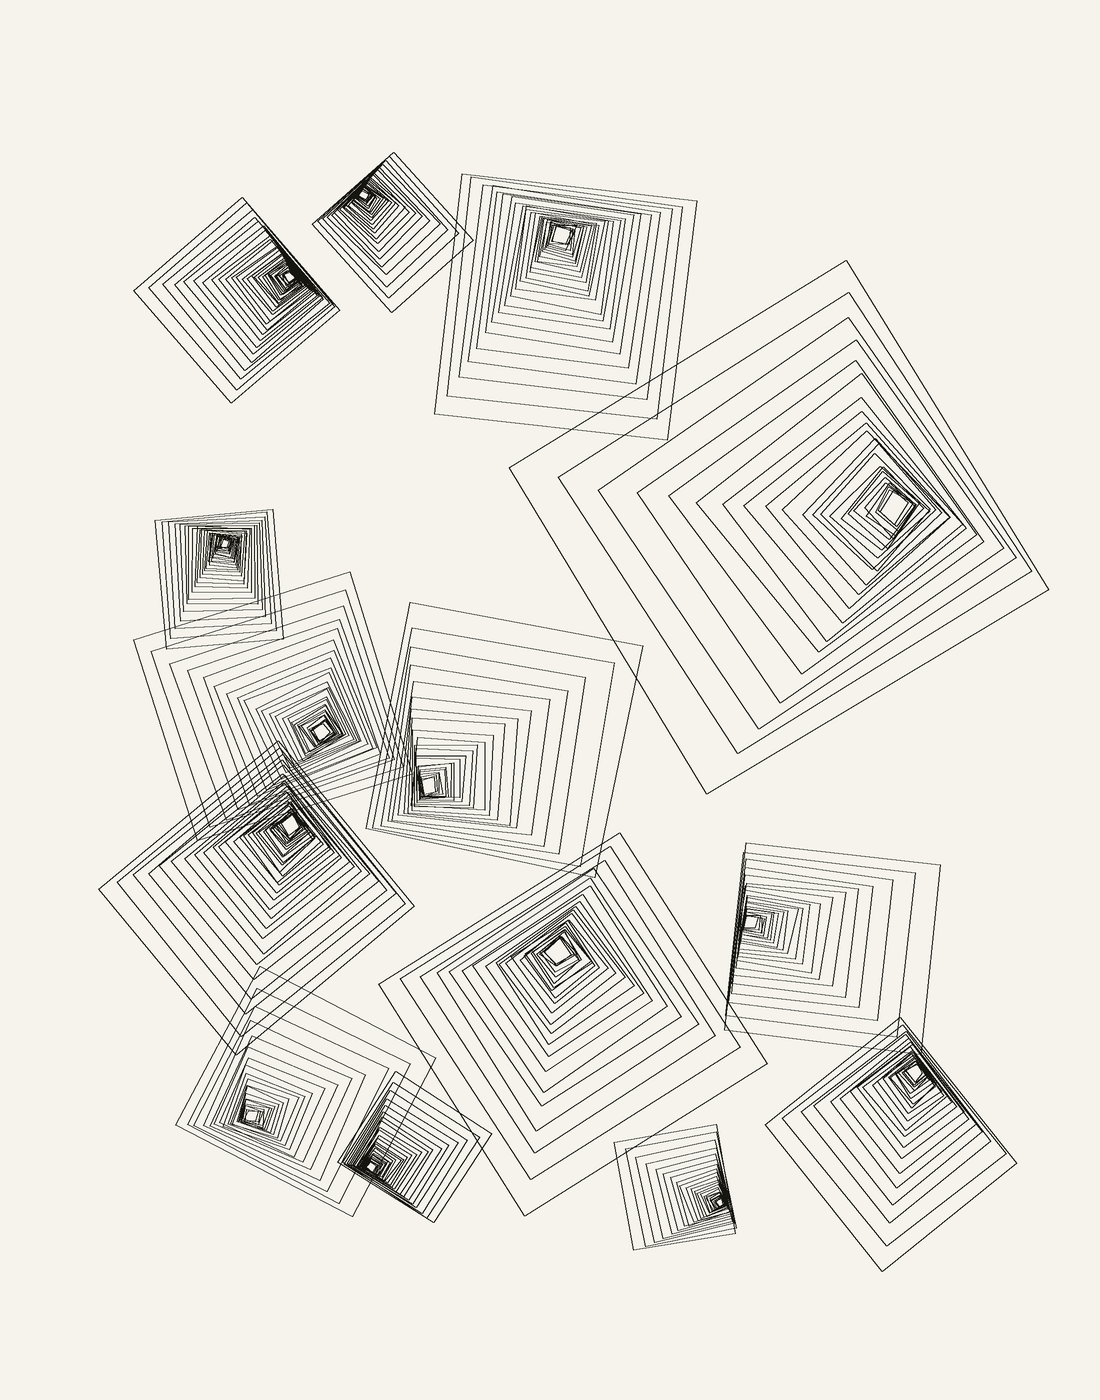
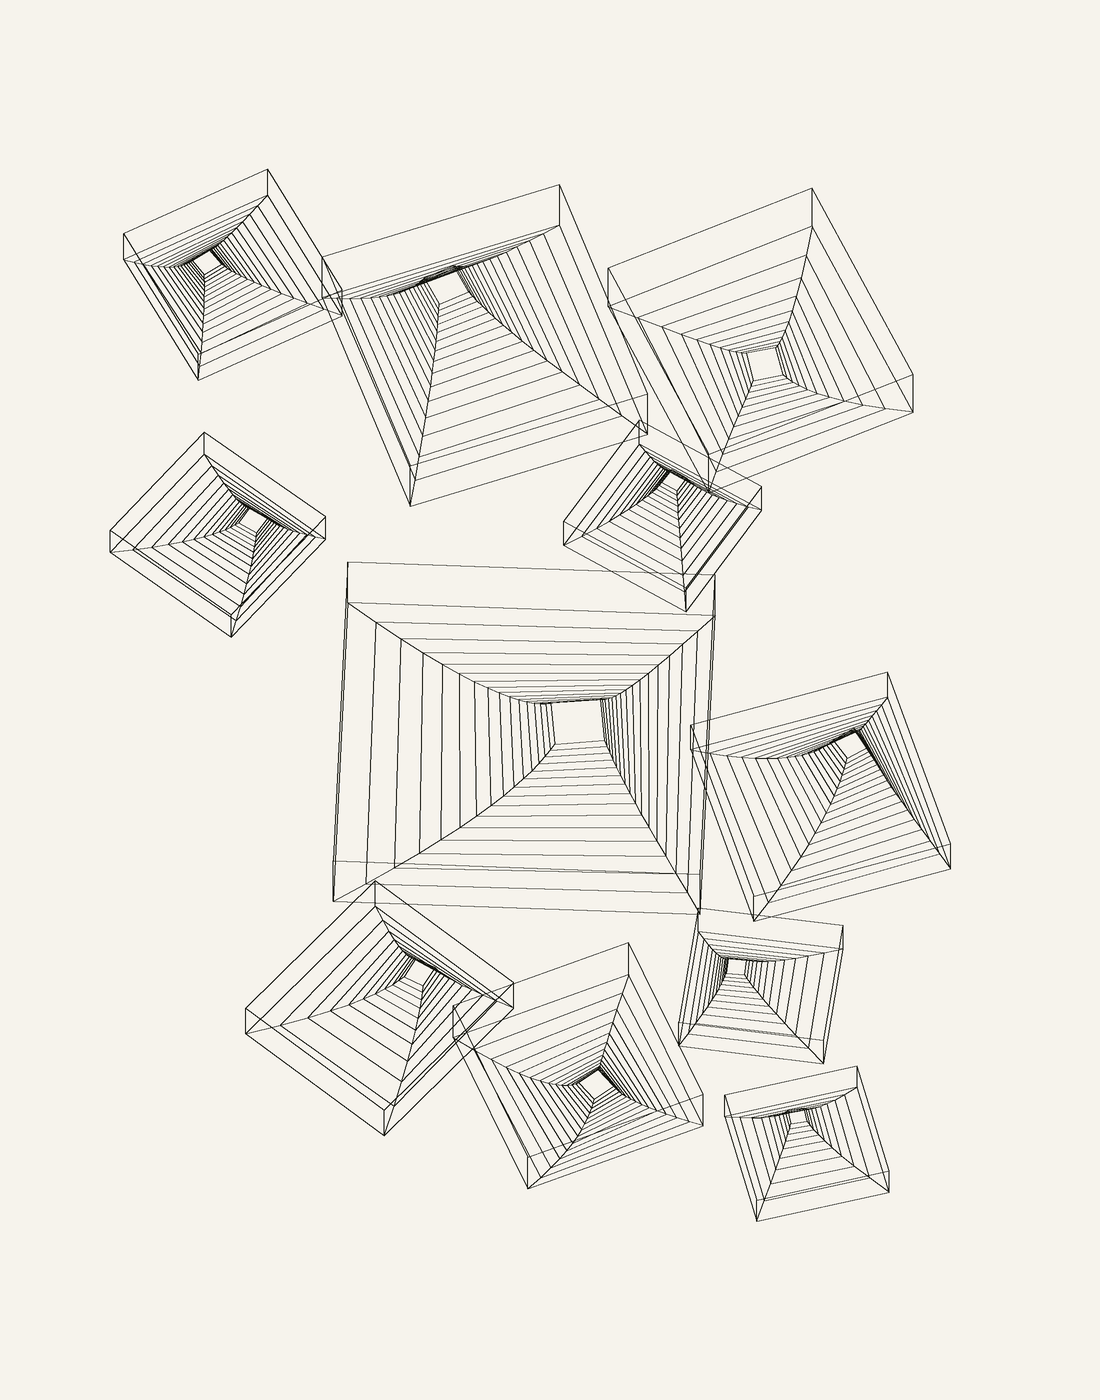
bismuth: rebuild as randomized 3D hopper crystals
The flat nested-rectangle version read as op-art, not bismuth. Each
crystal is now modelled in 3D — a block prism whose top face carries a
shallow inverted ziggurat of terraces with corner risers, funnel centre
drifting off-axis — and the cluster is axonometrically projected.
Step depth capped well below face width: deep pits project as spikes.
Wireframe M/L-only SVG, ~19m ink, ~20 min plots.

Claude-Session: https://claude.ai/code/session_01JWP9tY4m4hfX8WyoEQZ1kU

Changed region(s): [[0.0927, 0.0921, 0.9273, 0.8907], [0.9273, 0.3993, 0.9582, 0.43]]

diff --git a/tools/gen_bismuth.py b/tools/gen_bismuth.py
@@ -1,15 +1,16 @@
 #!/usr/bin/env python3
 """
-gen_bismuth.py — hopper-crystal clusters for the plotter.
+gen_bismuth.py — randomized 3D bismuth hopper crystals for the plotter.
 
-Bismuth grows skeletal "hopper" crystals: the edges of each face grow
-faster than the centre, leaving stepped, funnel-like terraces. Drawn
-flat, a hopper is a staircase of concentric rectangles whose centres
-drift toward one corner as they shrink — that drift is what reads as
-depth. A cluster of them at mixed sizes and rotations is the classic
-bismuth specimen.
+Real bismuth grows skeletal "hopper" crystals: the rim of each face
+grows faster than the centre, so the face develops as a square spiral
+staircase descending into the crystal. Here each crystal is modelled in
+3D — a block prism whose top face carries an inverted ziggurat of
+terraces (closed rings stepping down and inward, with corner risers) —
+then the whole cluster is axonometrically projected to the sheet.
+Wireframe only: what the pen can draw.
 
-Direct construction, seeded RNG: every seed is a different specimen.
+Seeded RNG throughout: every seed is a different specimen cluster.
 Output is M/L-only SVG in the pipeline dialect + PNG preview.
 
 Usage:  python tools/gen_bismuth.py           # seed 3
@@ -23,58 +24,89 @@ OUT = os.path.join(HERE, "..", "assets", "generative")
 
 W, H = 1100, 1400
 MARGIN = 110
+TILT = 1.02          # camera tilt (rad): ~30° above the horizon
 
 
-def hopper(rng, cx, cy, size, rot):
-    """One hopper crystal: a staircase of drifting concentric rectangles."""
+def ring_corners(s, aspect, twist_th):
+    hw, hh = s / 2, s * aspect / 2
+    c = np.array([[-hw, -hh], [hw, -hh], [hw, hh], [-hw, hh]], float)
+    ct, st = math.cos(twist_th), math.sin(twist_th)
+    R = np.array([[ct, -st], [st, ct]])
+    return c @ R.T
+
+
+def hopper3d(rng, s0):
+    """One crystal in local 3D coords (z up; hopper descends below z=0).
+    Returns a list of 3D polylines (Nx3 arrays)."""
+    aspect = rng.uniform(0.9, 1.1)
+    shrink = rng.uniform(0.78, 0.88)
+    dz = rng.uniform(0.016, 0.030) * s0          # step depth per terrace — shallow:
+    # a hopper pit is much wider than deep, or it projects as a spike
+    twist = rng.uniform(-0.03, 0.03)
+    sink = rng.uniform(0, 2 * math.pi)           # drift direction of the funnel
+    drift_k = rng.uniform(0.25, 0.7)
+    body_h = rng.uniform(0.22, 0.34) * s0         # visible prism height
+
     polys = []
-    aspect = rng.uniform(0.88, 1.12)
-    shrink = rng.uniform(0.86, 0.91)
-    twist = rng.uniform(-0.02, 0.02)
-    # the funnel sinks toward one corner — pick it once per crystal
-    sink = rng.uniform(0, 2 * math.pi)
-    drift_k = rng.uniform(0.55, 0.92)
-    jit = size * 0.006
-
-    s, th = size, rot
-    x, y = cx, cy
-    while s > size * 0.06:
-        hw, hh = s / 2, s * aspect / 2
-        corners = np.array([[-hw, -hh], [hw, -hh], [hw, hh], [-hw, hh]])
-        c, snt = math.cos(th), math.sin(th)
-        R = np.array([[c, -snt], [snt, c]])
-        pts = corners @ R.T + [x, y]
-        pts = pts + rng.normal(0, jit, size=pts.shape)
-        polys.append([tuple(p) for p in pts] + [tuple(pts[0])])
-        # next terrace: smaller, twisted, drifted toward the sink corner —
-        # drift is capped at the shrink amount so every ring stays nested
-        # inside the previous one (unbounded drift telescopes into trails)
+    s, th, k = s0, 0.0, 0
+    cx = cy = 0.0
+    prev = None
+    while s > s0 * 0.12:
+        c2 = ring_corners(s, aspect, th) + [cx, cy]
+        z = -k * dz
+        ring = np.column_stack([c2, np.full(4, z)])
+        polys.append(np.vstack([ring, ring[:1]]))          # closed terrace
+        if prev is not None:
+            for i in range(4):                             # corner risers
+                polys.append(np.array([prev[i], ring[i]]))
+        prev = ring
         room = s * (1 - shrink) / 2
-        x += math.cos(sink) * room * drift_k
-        y += math.sin(sink) * room * drift_k
+        cx += math.cos(sink) * room * drift_k
+        cy += math.sin(sink) * room * drift_k
         s *= shrink
         th += twist
+        k += 1
+
+    # crystal body: outer rim extruded downward + base outline
+    top = np.column_stack([ring_corners(s0, aspect, 0.0), np.zeros(4)])
+    base = top.copy()
+    base[:, 2] = -body_h
+    for i in range(4):
+        polys.append(np.array([top[i], base[i]]))
+    polys.append(np.vstack([base, base[:1]]))
     return polys
 
 
-def cluster(seed=3, n=14):
+def project(polys3d, yaw, scale, ox, oy):
+    """Yaw about z, tilt toward camera, orthographic drop of depth."""
+    cy_, sy_ = math.cos(yaw), math.sin(yaw)
+    Rz = np.array([[cy_, -sy_, 0], [sy_, cy_, 0], [0, 0, 1]])
+    ct, st = math.cos(TILT), math.sin(TILT)
+    out = []
+    for p in polys3d:
+        q = p @ Rz.T
+        x = q[:, 0]
+        y = q[:, 1] * st - q[:, 2] * ct          # tilt: depth lifts, z drops
+        out.append(np.column_stack([ox + x * scale, oy - y * scale]))
+    return out
+
+
+def cluster(seed=3, n=11):
     rng = np.random.default_rng(seed)
-    placed = []          # (x, y, r)
+    placed = []
     polys = []
-    # one anchor crystal, then satellites by rejection sampling
-    sizes = sorted(rng.uniform(90, 340, n))[::-1]
-    sizes[0] = rng.uniform(330, 400)
+    sizes = sorted(rng.uniform(120, 300, n))[::-1]
+    sizes[0] = rng.uniform(320, 380)
     for s in sizes:
-        for _ in range(400):
-            x = rng.uniform(MARGIN + s / 2, W - MARGIN - s / 2)
-            y = rng.uniform(MARGIN + s / 2, H - MARGIN - s / 2)
-            # allow only shallow intergrowth — deep overlap between two large
-            # crystals interleaves their terraces into a noisy ladder
-            ok = all(math.hypot(x - px, y - py) > 0.78 * (s / 2 + pr)
-                     for px, py, pr in placed)
-            if ok:
-                placed.append((x, y, s / 2))
-                polys += hopper(rng, x, y, s, rng.uniform(0, math.pi / 2))
+        r_screen = s * 0.72                       # projected footprint radius
+        for _ in range(500):
+            x = rng.uniform(MARGIN + r_screen, W - MARGIN - r_screen)
+            y = rng.uniform(MARGIN + r_screen, H - MARGIN - r_screen)
+            if all(math.hypot(x - px, y - py) > 0.74 * (r_screen + pr)
+                   for px, py, pr in placed):
+                placed.append((x, y, r_screen))
+                p3 = hopper3d(rng, s)
+                polys += project(p3, rng.uniform(0, math.pi / 2), 1.0, x, y)
                 break
     return polys
 
@@ -82,8 +114,8 @@ def cluster(seed=3, n=14):
 def to_svg(polys, path):
     sub = []
     for p in polys:
-        pieces = ["M %.2f,%.2f" % p[0]]
-        pieces += ["L %.2f,%.2f" % q for q in p[1:]]
+        pieces = ["M %.2f,%.2f" % (p[0][0], p[0][1])]
+        pieces += ["L %.2f,%.2f" % (q[0], q[1]) for q in p[1:]]
         sub.append(" ".join(pieces))
     svg = ('<svg xmlns="http://www.w3.org/2000/svg" viewBox="0 0 %d %d">\n'
            '<path d="%s" fill="none" stroke="#15160f" stroke-width="0.7"/>\n'
@@ -99,7 +131,7 @@ def to_png(polys, path, scale=1.0, ss=2):
     dr = ImageDraw.Draw(im)
     k = scale * ss
     for p in polys:
-        dr.line([(x * k, y * k) for x, y in p], fill=(21, 22, 15), width=ss)
+        dr.line([(q[0] * k, q[1] * k) for q in p], fill=(21, 22, 15), width=ss)
     im = im.resize((w // ss, h // ss), Image.LANCZOS)
     im.save(path)
 
@@ -113,4 +145,4 @@ if __name__ == "__main__":
     to_png(polys, base + ".png")
     ink = sum(sum(math.hypot(p[i+1][0]-p[i][0], p[i+1][1]-p[i][1])
                   for i in range(len(p)-1)) for p in polys) * (420/1400) / 1000
-    print("bismuth seed=%d rings=%d ink=%.1fm -> %s.{svg,png}" % (seed, len(polys), ink, base))
+    print("bismuth3d seed=%d polylines=%d ink=%.1fm -> %s.{svg,png}" % (seed, len(polys), ink, base))
